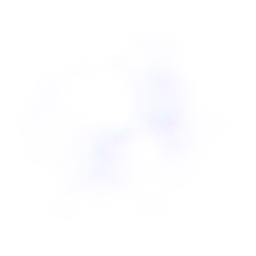
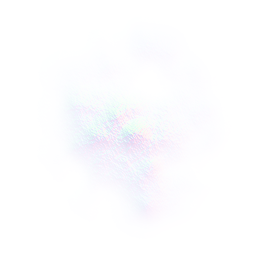
added normal maps + generators for rock, sand, snow. redid water and grass nm gen, balance

Changed region(s): [[0.4688, 0.5, 0.5625, 0.5938], [0.4062, 0.4375, 0.4688, 0.5], [0.3438, 0.5, 0.375, 0.5625]]

diff --git a/generation/gen-normalmap.js b/generation/gen-normalmap.js
@@ -81,6 +81,22 @@ var newArr = function(size, val) {
         x = rot(x); y = rot(y);
         return ret.inc(x,y,val);
     };
+    ret.normalize = function() {
+        var minv = 10000, maxv = -10000;
+        for (var x=0; x<size; x++) {
+            for (var y=0; y<size; y++) {
+                var v = this.get(x, y);
+                minv = Math.min(minv, v);
+                maxv = Math.max(maxv, v);
+            }
+        }
+        for (var x=0; x<size; x++) {
+            for (var y=0; y<size; y++) {
+                var v = this.get(x, y);
+                this.set(x, y, (v-minv) / (maxv-minv));
+            }
+        }
+    };
     return ret;
 };
 
@@ -207,17 +223,7 @@ switch (type) {
 
     case 'grass':
         var p = genPerlin(sz, 0.0, 1.0, 12);
-        for (var x=0; x<sz; x++) {
-            for (var y=0; y<sz; y++) {
-                var v = p.get(x, y);
-                hmap.set(x, y, v);
-                bmap.set(x, y, v);
-            }
-        }
-        break;
-
-    case 'water':
-        var lst = new Array(32);
+        var lst = new Array(256);
         for (var i=0; i<lst.length; i++) {
             lst[i] = {
                 str: Math.pow(Math.random(), 0.3),
@@ -225,21 +231,153 @@ switch (type) {
                 y: Math.random()*sz
             };
         }
-        for (var x=-sz/2; x<sz*1.5; x++) {
-            for (var y=-sz/2; y<sz*1.5; y++) {
-                var xx = (x + sz) % sz,
-                    yy = (y + sz) % sz;
+        for (var x=0; x<sz; x++) {
+            for (var y=0; y<sz; y++) {
+                var xx = x, yy = y;
                 var v = 0;
                 for (var i=0; i<lst.length; i++) {
                     var dx = xx-lst[i].x, dy = yy-lst[i].y;
+                    dx = Math.min(Math.abs(dx), Math.min(Math.abs(dx+sz), Math.abs(dx-sz)));
+                    dy = Math.min(Math.abs(dy), Math.min(Math.abs(dy+sz), Math.abs(dy-sz)));
                     var d = Math.sqrt(dx*dx+dy*dy);
-                    v += (Math.sin((d/lst[i].str)/12) * 0.5 + 0.5) * lst[i].str * 0.2;
+                    var r = lst[i].str * sz/3;
+                    if (d <= r) {
+                        v = Math.max(v, Math.sin((r - d)/r*Math.PI*0.5) * lst[i].str * 0.8 * (p.getRot(x,y)*0.3+0.7));
+                    }
                 }
                 hmap.setRot(x, y, v);
                 bmap.setRot(x, y, v);
             }
         }
+        hmap.normalize();
         break;
+
+    case 'water':
+        var lst = new Array(48);
+        for (var i=0; i<lst.length; i++) {
+            lst[i] = {
+                str: Math.pow(Math.random(), 0.3),
+                x: Math.random()*sz,
+                y: Math.random()*sz
+            };
+        }
+        for (var x=0; x<sz; x++) {
+            for (var y=0; y<sz; y++) {
+                var xx = x, yy = y;
+                var v = 0;
+                for (var i=0; i<lst.length; i++) {
+                    var dx = xx-lst[i].x, dy = yy-lst[i].y;
+                    dx = Math.min(Math.abs(dx), Math.min(Math.abs(dx+sz), Math.abs(dx-sz)));
+                    dy = Math.min(Math.abs(dy), Math.min(Math.abs(dy+sz), Math.abs(dy-sz)));
+                    var d = Math.sqrt(dx*dx+dy*dy);
+                    if (d <= sz/2) {
+                        v += (Math.sin((d/lst[i].str)/12) * 0.5 + 0.5) * lst[i].str * 0.2 * (1-d/(sz/2));
+                    }
+                }
+                hmap.setRot(x, y, v);
+                bmap.setRot(x, y, v);
+            }
+        }
+        hmap.normalize();
+        break;
+
+    case 'snow':
+        var lst = new Array(256);
+        for (var i=0; i<lst.length; i++) {
+            lst[i] = {
+                str: Math.pow(Math.random(), 0.3),
+                x: Math.random()*sz,
+                y: Math.random()*sz
+            };
+        }
+        for (var x=0; x<sz; x++) {
+            for (var y=0; y<sz; y++) {
+                var xx = x, yy = y;
+                var v = 0;
+                for (var i=0; i<lst.length; i++) {
+                    var dx = xx-lst[i].x, dy = yy-lst[i].y;
+                    dx = Math.min(Math.abs(dx), Math.min(Math.abs(dx+sz), Math.abs(dx-sz)));
+                    dy = Math.min(Math.abs(dy), Math.min(Math.abs(dy+sz), Math.abs(dy-sz)));
+                    var d = Math.sqrt(dx*dx+dy*dy);
+                    var r = lst[i].str * sz/3;
+                    if (d <= r) {
+                        v = Math.max(v, Math.sin((r - d)/r*Math.PI*0.5) * lst[i].str * 0.8 * (Math.random()*0.05+0.95));
+                    }
+                }
+                hmap.setRot(x, y, v);
+                bmap.setRot(x, y, v);
+            }
+        }
+        hmap.normalize();
+        break;
+
+    case 'sand':
+        var lst = new Array(1024);
+        for (var i=0; i<lst.length; i++) {
+            lst[i] = {
+                str: Math.pow(Math.random(), 0.3) / 3,
+                x: Math.random()*sz,
+                y: Math.random()*sz
+            };
+        }
+        for (var x=0; x<sz; x++) {
+            for (var y=0; y<sz; y++) {
+                var xx = x, yy = y;
+                var v = 0;
+                for (var i=0; i<lst.length; i++) {
+                    var dx = xx-lst[i].x, dy = yy-lst[i].y;
+                    dx = Math.min(Math.abs(dx), Math.min(Math.abs(dx+sz), Math.abs(dx-sz)));
+                    dy = Math.min(Math.abs(dy), Math.min(Math.abs(dy+sz), Math.abs(dy-sz)));
+                    var d = Math.sqrt(dx*dx+dy*dy);
+                    var r = lst[i].str * sz/3;
+                    if (d <= r) {
+                        v = Math.max(v, Math.sin((r - d)/r*Math.PI*0.5) * lst[i].str * 0.8 * 3.0 * (Math.random()*0.2+0.8));
+                    }
+                }
+                hmap.setRot(x, y, v);
+                bmap.setRot(x, y, v);
+            }
+        }
+        hmap.normalize();
+        break;        
+
+    case 'rock':
+        var lst = new Array(512);
+        for (var i=0; i<lst.length; i++) {
+            lst[i] = {
+                str: Math.pow(Math.random(), 0.3) / 3,
+                x: Math.random()*sz,
+                y: Math.random()*sz,
+                a: Math.random()*Math.PI*2.0
+            };
+            if (i>256) {
+                lst[i].str /= 5.0;
+            }
+            lst[i].ca = Math.cos(lst[i].a);
+            lst[i].sa = Math.sin(lst[i].a);
+        }
+        for (var x=0; x<sz; x++) {
+            for (var y=0; y<sz; y++) {
+                var xx = x, yy = y;
+                var v = 0;
+                for (var i=0; i<lst.length; i++) {
+                    var _dx = (xx-lst[i].x), _dy = (yy-lst[i].y);
+                    var dx = _dx * lst[i].ca - _dy * lst[i].sa;
+                    var dy = _dy * lst[i].ca + _dx * lst[i].sa;
+                    dx = Math.min(Math.abs(dx), Math.min(Math.abs(dx+sz), Math.abs(dx-sz)));
+                    dy = Math.min(Math.abs(dy), Math.min(Math.abs(dy+sz), Math.abs(dy-sz)));
+                    var d = Math.max(dx, dy);
+                    var r = lst[i].str * sz/3;
+                    if (d <= r) {
+                        v = Math.max(v, Math.sin((r - d)/r*Math.PI*0.5) * lst[i].str * 0.8 * 3.0 * (Math.random()*0.1+0.9));
+                    }
+                }
+                hmap.setRot(x, y, v);
+                bmap.setRot(x, y, v);
+            }
+        }
+        hmap.normalize();
+        break; 
 
     case 'cloud':
         Math.random2dSeed = Math.random()*40;
@@ -260,6 +398,7 @@ switch (type) {
                 }
             }
         }
+        hmap.normalize();
         break;
 
     case 'death-metal':

diff --git a/scripts/mapgen.js b/scripts/mapgen.js
@@ -624,10 +624,10 @@ BSWG.genMap = function(size, numZones, numPlanets, areaNo) {
                 return x >= 0 && y >= 0 && x < size && y < size && ret.terMap[x][y] === 1;
             },
             color: [0.4*.85, 0.75*.85, 0.25*.85],
-            normalMap: BSWG.render.images['rock_nm'].texture,
+            normalMap: BSWG.render.images['grass_nm'].texture,
             relfect: 0.05,
-            normalMapAmp: 1.0,
-            normalMapScale: 1.0
+            normalMapAmp: 2.0,
+            normalMapScale: 0.7
         },
         'tileset-sand': {
             map: function(x,y) {
@@ -635,9 +635,9 @@ BSWG.genMap = function(size, numZones, numPlanets, areaNo) {
             },
             color: [1.75*0.35, 1.25*0.35, 0.1*0.35],
             reflect: 0.05,
-            normalMap: BSWG.render.images['grass_nm'].texture,
+            normalMap: BSWG.render.images['sand_nm'].texture,
             normalMapScale: 0.1,
-            normalMapAmp: 0.75,
+            normalMapAmp: 1.0,
         },
         'tileset-rockland': {
             map: function(x,y) {
@@ -646,7 +646,7 @@ BSWG.genMap = function(size, numZones, numPlanets, areaNo) {
             normalMap: BSWG.render.images['rock_nm'].texture,
             color: [0.75/3, 0.6/3, 0.6/3],
             reflect: 0.15,
-            normalMapScale: 1.5,
+            normalMapScale: 2.0,
             normalMapAmp: 1.0,
         },
         'tileset-snow': {
@@ -655,9 +655,9 @@ BSWG.genMap = function(size, numZones, numPlanets, areaNo) {
             },
             color: [2.25*0.5, 2.3*0.5, 2.5*0.5],
             reflect: 0.05,
-            normalMap: BSWG.render.images['rock_nm'].texture,
+            normalMap: BSWG.render.images['snow_nm'].texture,
             normalMapScale: 0.2,
-            normalMapAmp: 0.5,
+            normalMapAmp: 0.75,
         },
         'tileset-below': {
             map: function(x,y) {
@@ -668,7 +668,7 @@ BSWG.genMap = function(size, numZones, numPlanets, areaNo) {
             isBelow: true,
             reflect: 0.25,
             normalMapAmp: 1.0,
-            normalMapScale: 1.25
+            normalMapScale: 2.5
         },
         'water': {
             color: [0.05*0.5, 0.4*0.25, 0.75*0.5, 0.85],

diff --git a/scripts/main.js b/scripts/main.js
@@ -70,12 +70,13 @@ var BSWG = new function(){
     ];
     var images = {
         'test_nm': 'ship-nm.png',
-        'grass_nm': 'grass-nm.png',
-        'water_nm': 'water-nm.png',
+        'grass_nm': 'grass-nm-512.png',
+        'water_nm': 'water-nm-1024.png',
+        'snow_nm': 'snow-nm-512.png',
+        'sand_nm': 'sand-nm-512.png',
+        'rock_nm': 'rock-nm-512.png',
         'damage_nm': 'damage-nm.png',
         'hud_nm': 'hud-nm.png',
-        'rock_nm': 'rock-nm.png',
-        'cloud_nm': 'cloud-nm.png',
         'env-map-1': 'env-map-1.png',
         'env-map-2': 'env-map-2.png',
         'env-map-3': 'env-map-3.png',
@@ -135,10 +136,11 @@ var BSWG = new function(){
         'test_nm',
         'grass_nm',
         'water_nm',
-        'damage_nm',
-        'cloud_nm',
-        'hud_nm',
         'rock_nm',
+        'snow_nm',
+        'sand_nm',
+        'damage_nm',
+        'hud_nm',
         'env-map-1',
         'env-map-2',
         'env-map-3',

diff --git a/scripts/tile.js b/scripts/tile.js
@@ -1,5 +1,5 @@
-BSWG.tileSize = 44;
-BSWG.tileMeshSize = 44;
+BSWG.tileSize = 96;
+BSWG.tileMeshSize = 96;
 BSWG.tileSizeWorld = 48.0;
 BSWG.tileHeightWorld = 32.0;
 BSWG.minimapTileSize = 4;
@@ -837,7 +837,7 @@ BSWG.tileSet = function (imageName, color, waterLevel, nmap, nmapScale, nmapAmp,
         }
         else {
             var _W = image.width/3, _H = image.height/3;
-            var ovr = 2;
+            var ovr = 1;
             ctx.drawImage(image, 0, 0, image.width, image.height, 0, 0, w, h);
             ctx.drawImage(image, _W-1, 0,    1, _H*3,   BSWG.tileSize-ovr, 0,     ovr*2, h);
             ctx.drawImage(image, _W*2-1, 0,  1, _H*3,   BSWG.tileSize*2-ovr, 0,   ovr*2, h);

diff --git a/scripts/component.js b/scripts/component.js
@@ -7,7 +7,7 @@ BSWG.component_jMatchClickRange = Math.pow(0.15, 2.0);
 
 BSWG.friendlyFactor = 1/16;
 // attack/defense bias to level difference
-BSWG.adBiasArr = [1, 1.5, 2.0, 2.5, 3.0, 3.5, 4.0, 4.5, 5.0];
+BSWG.adBiasArr = [1, 2.0, 3.0, 4.0, 5.0, 6.0, 7.0, 8.0, 9.0];
 BSWG.adBias = function(p, e) { // (p)layer (e)nemy
     var diff = Math.clamp(e-p, -7, 7);
     var bias1 = BSWG.adBiasArr[Math.floor(Math.abs(diff))];
@@ -21,7 +21,7 @@ BSWG.adBias = function(p, e) { // (p)layer (e)nemy
         return bias;
     }
 };
-BSWG.defenseBias = 0.5;
+BSWG.defenseBias = 0.75;
 
 BSWG.archiveRange = 200.0;
 BSWG.arch_hashSize = 25.0;

diff --git a/scripts/player-stats.js b/scripts/player-stats.js
@@ -1,24 +1,24 @@
 BSWG.enemyLevelInfo = {
     0: {
-        buffi: -4
+        buffi: -3
     },
     1: {
-        buffi: -3
+        buffi: -2.5
     },
     2: {
-        buffi: -3
+        buffi: -2
     },
     3: {
-        buffi: -2
+        buffi: -1.5
     },
     4: {
         buffi: -1
     },
     5: {
-        buffi: 0
+        buffi: -0.5
     },
     6: {
-        buffi: 1.0
+        buffi: 0.0
     },
     7: {
         buffi: 1.0

diff --git a/scripts/game.js b/scripts/game.js
@@ -897,6 +897,7 @@ BSWG.game = new function(){
                             return true
                         },
                         color: [0.6, 0.0, 0.0],
+                        normalMap: BSWG.render.images['rock_nm'].texture,
                         normalMapAmp: 0.75,
                         normalMapScale: 0.5,
                         isBelow: true
